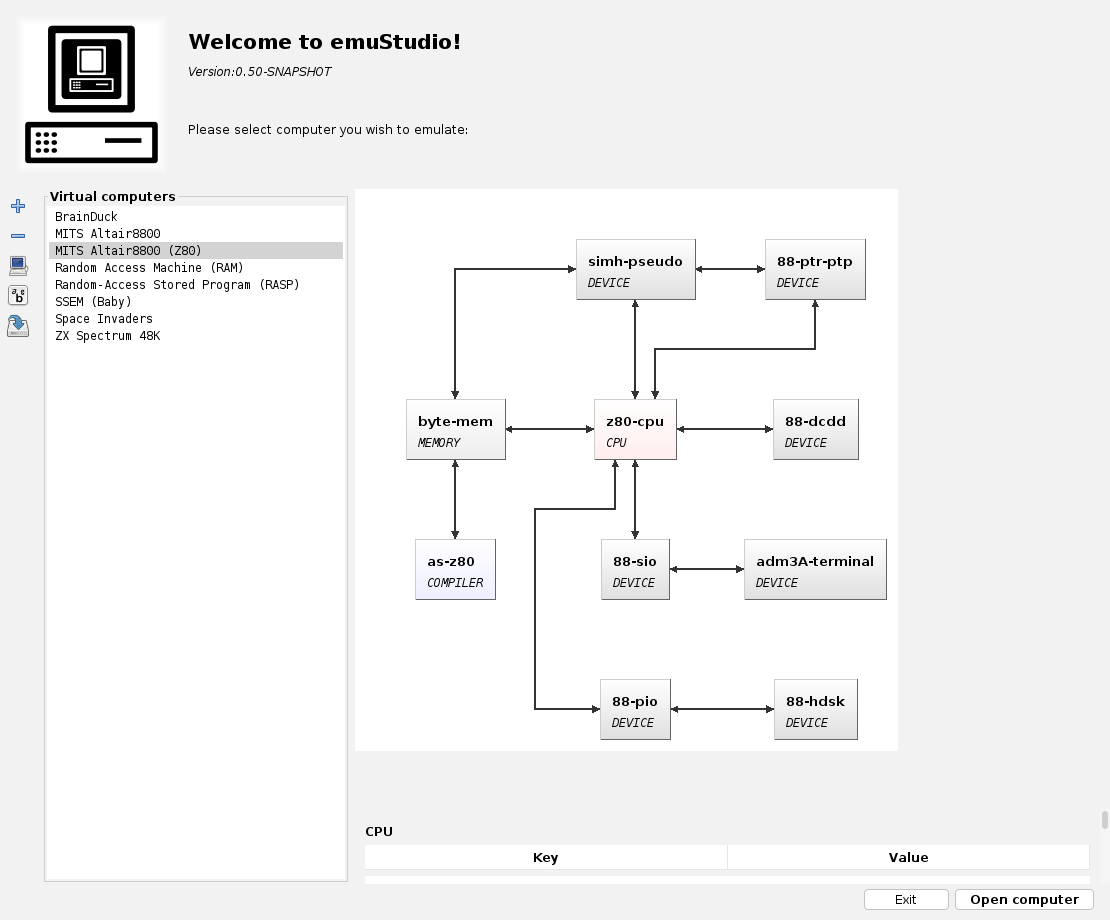
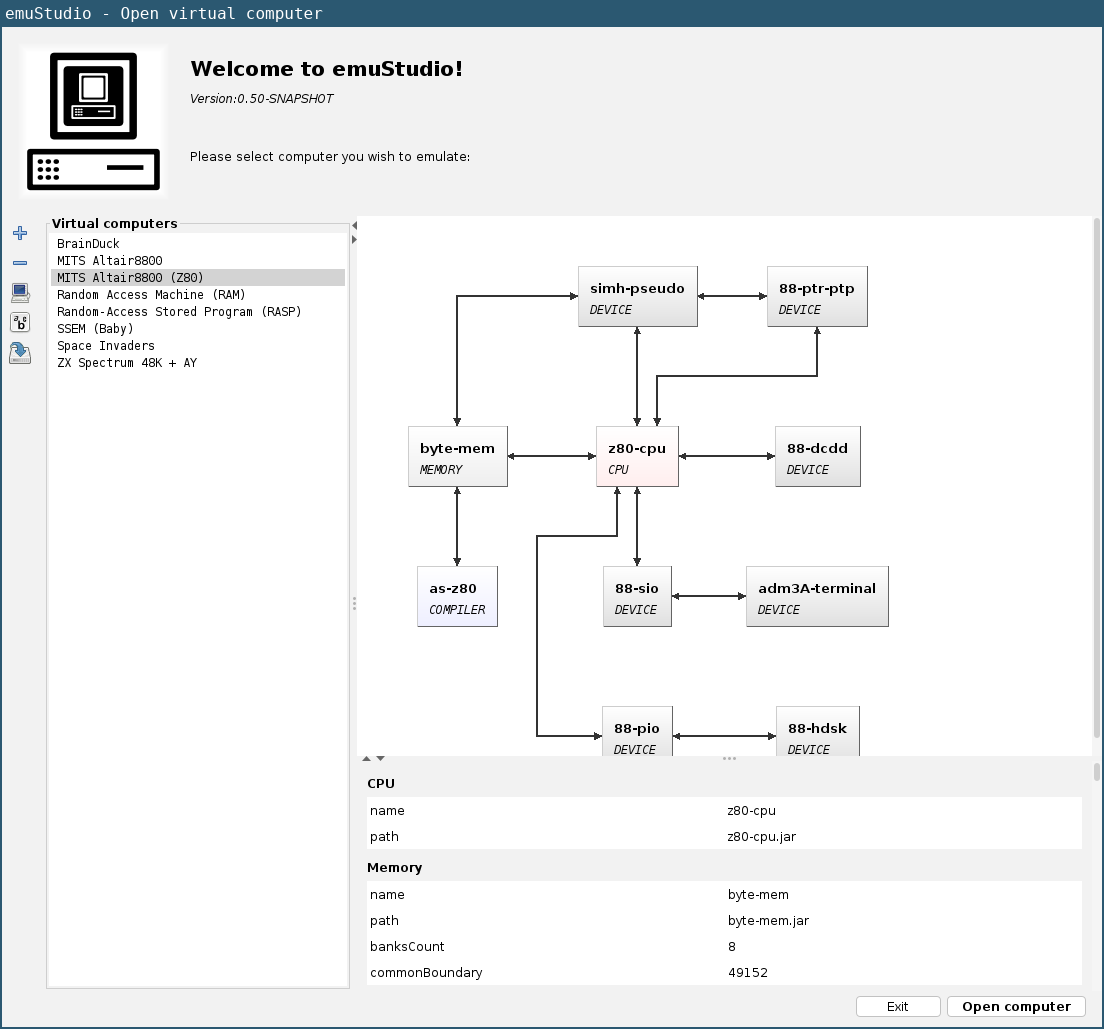
[#453] Update editor guide and refresh application screenshots

diff --git a/_documentation/user/_doc/application/source-editing.md b/_documentation/user/_doc/application/source-editing.md
@@ -10,9 +10,27 @@ permalink: /application/source-editing
 
 # Source editing
 
-The **Editor** menu provides selection, text transformation, navigation, display, refactoring, and split-view commands.
+The **Edit** menu provides selection, text transformation, navigation, display, refactoring, and split-view commands.
 Commands act on the focused source view. With no selection, line transformations such as sorting and whitespace cleanup
 act on the whole file; duplicate acts on the current line.
+
+![Edit menu with text, selection, navigation, macros, display, refactoring, and split-view commands]({{ site.baseurl }}/assets/application/source-edit-menu.png){: style="max-width: 1100px; width: 100%;" }
+
+## Files and tabs
+
+**File → New** creates an untitled tab. **File → Open** opens another file or selects its existing tab. Click the small
+**×** beside a tab's name to close that file, even when another tab is selected. **Ctrl+W** and **File → Close tab**
+close the active file. Unsaved changes are marked with `*`; closing offers save, discard, or cancel. Closing the last
+file leaves a fresh untitled tab. Saved open files are restored when you reopen that virtual computer.
+
+Save, Save As, and compilation use the focused source view. In a split, click the view you want to work on first.
+Save other modified files before compiling a source that includes them. Ctrl-click a compiler-identified include path
+to open it in a tab; save the containing file first so relative paths can be resolved.
+
+The editor uses JetBrains Mono NL. The toolbar's **Font zoom** slider and **Ctrl+mouse wheel** change the active view's
+font size; **Ctrl++** and **Ctrl+-** also zoom. Line numbers and compiler-provided syntax highlighting help identify
+source positions. Undo/redo and cut/copy/paste are available in **Edit** and the toolbar; **Edit → Select All** selects
+the entire document.
 
 ## Multiple selections and columns
 
@@ -21,7 +39,7 @@ all occurrences. Typing, deletion, cut, and paste act on all selections in one u
 **Escape** clears additional selections. Copy joins selections with newlines. When pasted text contains one row per
 selection, each selection receives its corresponding row; otherwise every selection receives the full text.
 
-Hold **Alt+Shift** and drag for a rectangular selection. **Editor → Selection → Column selection** also converts an
+Hold **Alt+Shift** and drag for a rectangular selection. **Edit → Selection → Column selection** also converts an
 ordinary selection's endpoints into a rectangle. Insertion pads short lines to the selected column.
 
 Use **Alt+Shift+Right** to expand a selection through a word, enclosing brackets, lines, a detected fold, and the file.
@@ -29,62 +47,100 @@ Use **Alt+Shift+Right** to expand a selection through a word, enclosing brackets
 
 ## Find and replace
 
-**Ctrl+F** or **Ctrl+H** opens the inline find/replace bar. It supports case-sensitive, whole-word and regex searches,
+**Ctrl+F** or **Ctrl+R** opens the inline find/replace bar. It supports case-sensitive, whole-word and regex searches,
 capture-group replacement, a current/total match counter, and preserve-case replacement. **Selection** captures the
 current selection as the search boundary. Moving to another match keeps that boundary; switching source views clears it.
 Next/previous search shortcuts use the inline query, including after the bar is closed.
 
-Choose **Files…** or **Editor → Find / replace in files…** to search open tabs or a directory. Include/exclude globs use
+![Inline find and replace showing search options and the current match count]({{ site.baseurl }}/assets/application/source-inline-search.png){: style="max-width: 1100px; width: 100%;" }
+
+Use **Previous / Next**, **Shift+F3 / F3**, or **Edit → Find previous / Find next** to move between matches. **Replace** replaces the
+selected match; **Replace all** replaces every match within the current search boundary in one undo step. The **×**
+in the search bar hides it without closing the file.
+
+Choose **Files…** or **Edit → Find / replace in files…** to search open tabs or a directory. Include/exclude globs use
 semicolon-separated patterns, for example `*.asm;*.inc`. Directory searches read UTF-8 text and use unsaved open buffers
 when available. Results show the file, line, matched text, and proposed replacement; double-click a result to navigate.
 Check the replacements to apply and choose **Apply checked replacements**. Changed snapshots abort replacement. Open
 buffers remain unsaved and support undo; replacements in closed files are written to disk.
 
+![Find and replace across open files with a selectable replacement preview]({{ site.baseurl }}/assets/application/source-search-files.png){: style="max-width: 1000px; width: 100%;" }
+
 ## Text and indentation
 
-**Ctrl+Shift+D** duplicates a line or selection. **Editor → Text** also provides sorting, reversing, removing duplicate
+**Ctrl+Shift+D** duplicates a line or selection. **Edit → Text** also provides sorting, reversing, removing duplicate
 lines, case conversion, trailing-whitespace cleanup, tab/space conversion, reindentation, and column alignment.
 
-**Ctrl+/** toggles comments using the compiler's comment delimiter. **Editor → Editor display → Indentation settings**
+**Ctrl+/** toggles comments using the compiler's comment delimiter. **Edit → Editor display → Indentation settings**
 controls indent width, tabs versus spaces, and columns used by alignment. Alignment uses token boundaries; reindentation
 uses generic block markers supplied by the compiler.
 
 ## Bookmarks and navigation
 
 Click the bookmark gutter or press **Ctrl+F2** to toggle a bookmark. **F2** and **Shift+F2** move between bookmarks.
-**Name / number bookmark** assigns a name or digit; **Ctrl+Alt+0–9** jumps to numbered bookmarks in open files.
-**Editor → Bookmarks…** lists bookmarks across open tabs. Bookmarks follow edits and are restored for saved files.
+**Edit → Navigate → Name / number bookmark** assigns a name or digit; **Ctrl+Alt+0–9** jumps to numbered bookmarks in
+open files. **Edit → Navigate → Bookmarks…** lists bookmarks across open tabs. Bookmarks follow edits and are restored
+for saved files.
 
-**Ctrl+G** opens go-to-line/column, using `line:column` with both numbers starting at 1. **Editor → Back**, **Forward**,
-and **Previous edit** revisit source locations. Ctrl-click a compiler-identified include path to open the referenced file.
+**Ctrl+G** opens go-to-line/column, using `line:column` with both numbers starting at 1. **Edit → Navigate → Back**,
+**Forward**, and **Previous edit** revisit source locations.
 
 ## Folding, display, macros, and splits
 
-Use the fold gutter or **Collapse all / Expand all** to fold compiler-provided blocks, multiline comments, and indented
+Use the fold gutter or **Edit → Editor display → Collapse all / Expand all** to fold compiler-provided blocks, multiline comments, and indented
 regions. A comment ending in `region` (optionally followed by a name) and a comment ending in `endregion` mark a custom
 region. Plain text supports `#region` and `#endregion` lines. Fold detection does not recognize assembler keywords in
 the editor.
 
-**Editor display** controls visible whitespace, end-of-line markers, indentation guides, soft wrap, token colors, and
+**Edit → Editor display** controls visible whitespace, end-of-line markers, indentation guides, soft wrap, token colors, and
 syntax selection for the current file. The compiler syntax is the default; other choices include plain text, Java, C,
 JSON, XML, and shell. Display and indentation preferences are saved in application settings.
 
-**Editing macros → Start recording / Stop recording** records the editor library's typing and editing actions.
+**Edit → Editing macros → Start recording / Stop recording** records the editor library's typing and editing actions.
 **Ctrl+Shift+M** replays the last recording. Recording is shared across source views for the current application session.
 
-**Split current file** opens two views of one document; edits appear in both. **Split with another file…** places two
-open files side by side. **Close split** restores the tab views. File operations use the focused source view.
+**Edit → Split view → Split current file** opens two views of one document; edits appear in both. **Split with another
+file…** places two open files side by side. **Close split** restores the tab views. File operations use the focused
+source view. Closing a file or opening another file also restores the tab views.
+
+![Two views of the same source with compiler-defined folds, a bookmark, and visible whitespace]({{ site.baseurl }}/assets/application/source-split-view.png){: style="max-width: 1100px; width: 100%;" }
 
 ## Rename and extraction
 
-**Rename symbol…** uses compiler-provided definitions, references, and scopes in the active source and its reachable
+**Edit → Refactor → Rename symbol…** uses compiler-provided definitions, references, and scopes in the active source and its reachable
 includes. Review its preview before applying. The 8080 and Z80 assemblers provide label, constant, macro, and macro-local
 symbol metadata; RAM and RASP provide labels. Comments and strings are not renamed as symbol references. Invalid source,
 ambiguous declarations, repeated/cyclic includes, and name conflicts are rejected. Save an untitled source before
 resolving its relative includes.
 
-The 8080 and Z80 assemblers support **Extract selection…** for complete instruction lines outside existing macros.
+![Rename preview listing the source positions that will change]({{ site.baseurl }}/assets/application/source-rename-preview.png){: style="max-width: 900px; width: 100%;" }
+
+The 8080 and Z80 assemblers support **Edit → Refactor → Extract selection…** for complete instruction lines outside existing macros.
 Choose **Macro** or **Subroutine (uses stack)**, enter a new name, and review the generated source. Extraction rejects
 declarations, nested blocks, and includes. Subroutine extraction also rejects stack and control-flow instructions and
 requires a working stack at runtime. Other compilers do not offer extraction. Review address-sensitive code after
 subroutine extraction because the generated call, jump, and return change the program layout.
+
+![Extraction preview showing the selected instructions moved into a new macro]({{ site.baseurl }}/assets/application/source-extraction-preview.png){: style="max-width: 900px; width: 100%;" }
+
+## Keyboard shortcuts
+
+| Shortcut | Action |
+| --- | --- |
+| **Ctrl+W** | Close active file |
+| **Ctrl+F / Ctrl+R** | Show inline find / replace |
+| **F3 / Shift+F3** | Next / previous search match |
+| **Ctrl+Shift+D** | Duplicate line or selection |
+| **Ctrl+/** | Toggle comment |
+| **Alt+D** | Add next occurrence to the selection |
+| **Ctrl+Shift+L** | Select all occurrences |
+| **Alt+click** | Add a caret |
+| **Alt+Shift+drag** | Make a rectangular selection |
+| **Alt+Shift+Right / Left** | Expand / shrink selection |
+| **Ctrl+G** | Go to line / column |
+| **Ctrl+F2** | Toggle bookmark |
+| **F2 / Shift+F2** | Next / previous bookmark |
+| **Ctrl+Alt+0–9** | Go to a numbered bookmark across open files |
+| **Ctrl+Shift+M** | Replay editing macro |
+| **Ctrl+mouse wheel / Ctrl++ / Ctrl+-** | Change font size |
+| **Escape** | Clear additional carets and marked occurrences |

diff --git a/_documentation/user/_doc/application/configuration.md b/_documentation/user/_doc/application/configuration.md
@@ -11,8 +11,8 @@ permalink: /application/configuration-file
 # Configuration file
 
 emuStudio reads application settings from `emuStudio.toml` at startup. By default it uses the current working directory;
-run the launcher from the extracted installation directory to use its settings. The schema editor writes grid
-preferences back to this file while emuStudio is running.
+run the launcher from the extracted installation directory to use its settings. The schema and source editors write
+their preferences back to this file while emuStudio is running.
 
 ## Configuration and plugin roots
 
@@ -35,6 +35,24 @@ plugin root; absolute plugin paths remain unchanged. These options also work aft
 | `useSchemaGrid` | `true` / `false` | `true` | Show the grid and snap placement and movement to it in the schema editor. |
 | `schemaGridGap` | positive integer | `20` | Grid spacing in pixels; the editor's slider offers values from `5` to `100`. |
 | `theme` | `"LIGHT"`, `"DARK"`, `"INTELLIJ"` | `"INTELLIJ"` | Window and control appearance. Change the file and restart emuStudio. |
+
+### Source editor preferences
+
+Use **Edit → Editor display** to change these settings. New source views and later sessions use the saved preferences;
+changing a display option affects the focused view immediately. The other open views keep their current display.
+
+| Configuration key | Possible values | Default value | Description |
+|---|---|---|---|
+| `editorTabSize` | integer from `1` to `16` | `4` | Indentation width and displayed tab width. |
+| `editorSpaces` | `true` / `false` | `true` | Insert spaces instead of tab characters when indenting. |
+| `editorWhitespace` | `true` / `false` | `false` | Show space and tab markers. |
+| `editorEndOfLine` | `true` / `false` | `false` | Show end-of-line markers. |
+| `editorIndentGuides` | `true` / `false` | `false` | Show indentation guides. |
+| `editorWrap` | `true` / `false` | `false` | Wrap long lines in the source view. |
+| `editorFolding` | `true` / `false` | `true` | Enable source folding. |
+
+Column alignment, token colors, and per-file bookmarks are also stored by the editor. Use its dialogs and bookmark
+commands to change them. See [Source editing]({{ site.baseurl }}/application/source-editing) for the full command guide.
 
 Computer configurations are separate TOML files in `config/`. Use the
 [Open virtual computer dialog]({{ site.baseurl }}/application/opening-computer) and

diff --git a/_documentation/user/_doc/application/main-window.md b/_documentation/user/_doc/application/main-window.md
@@ -13,7 +13,7 @@ permalink: /application/main-window
 After opening a computer, the main window provides a source code editor and an **Emulator** tab. The editor tab shows
 the active source filename, or **Source code editor** when no file is selected.
 
-The **File**, **Edit**, and **Editor** menus provide file and text operations. **Project** contains compilation, a view of the
+The **File** and **Edit** menus provide file and text operations. **Project** contains compilation, a view of the
 computer schema, and compiler settings. **Help** contains information about emuStudio. The application's
 [theme setting]({{ site.baseurl }}/application/configuration-file) controls the appearance of windows and controls.
 
@@ -35,6 +35,8 @@ The source code editor supports the following features:
 - inline search/replace, selection search, and find/replace across files
 - cut/copy/paste text
 - multiple carets, rectangular editing, folding, bookmarks, and split views
+- text transformations, editing macros, navigation history, and compiler-supported rename and extraction
+- whitespace and indentation settings, token colors, and syntax selection per file
 - <kbd>Ctrl</kbd> + mouse wheel changes font size
 
 See [Source editing]({{ site.baseurl }}/application/source-editing) for commands, shortcuts, and compiler-supported
@@ -43,8 +45,10 @@ refactoring.
 ### Working with multiple files
 
 Each source file opens in its own tab. **New** creates an untitled tab; **Open** selects an already open file or opens
-another tab. A `*` after the tab name marks unsaved changes. Save, Save As, search, and compilation act on the selected
-tab. Closing a modified tab or leaving the computer prompts you to save or discard its changes, or cancel closing.
+another tab. A `*` after the tab name marks unsaved changes. Click the small **×** on a file's tab to close it, or use
+**File → Close tab** / **Ctrl+W** for the active tab. Save, Save As, search, and compilation act on the focused source
+view, including in a split. Closing a modified tab or leaving the computer prompts you to save or discard its changes,
+or cancel closing. Closing the last tab creates a fresh untitled tab.
 Saved files that remain open are restored when you reopen that virtual computer.
 
 Hold <kbd>Ctrl</kbd> and click an include filename identified by the compiler to open it in a tab. The 8080 and Z80

diff --git a/_documentation/user/_doc/application/opening-computer.md b/_documentation/user/_doc/application/opening-computer.md
@@ -31,6 +31,9 @@ The **Virtual computers** list on the left contains the configurations in the se
 Select a computer to preview its schema on the right. Drag the divider to change the space available to the list and
 preview.
 
+The panel below the schema shows the selected computer's plugin names, JAR paths, and configured settings. Its
+divider adjusts the space shared with the schema preview. Use **Edit computer** to change the configuration.
+
 Click **Open computer**, double-click the selected entry, or press <kbd>Enter</kbd> to load it. **Exit** closes the dialog
 without opening a computer.
 
